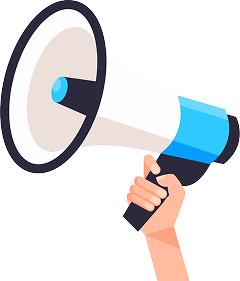
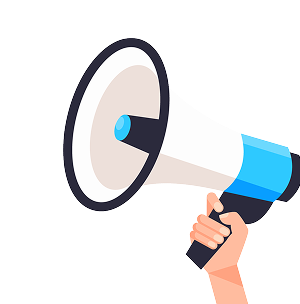
Add image Toa

diff --git a/resources/views/pengumuman.blade.php b/resources/views/pengumuman.blade.php
@@ -17,7 +17,7 @@
                 {{ $pengumumanKhusus->created_at->format('d M Y') }}
             </div>
         </div>
-        <div class="w-38 absolute bottom-0 right-0">
+        <div class="w-48 absolute bottom-0 right-0">
             <img src="{{ asset('images/toa.png') }}" alt="toa">
         </div>
     </div>
